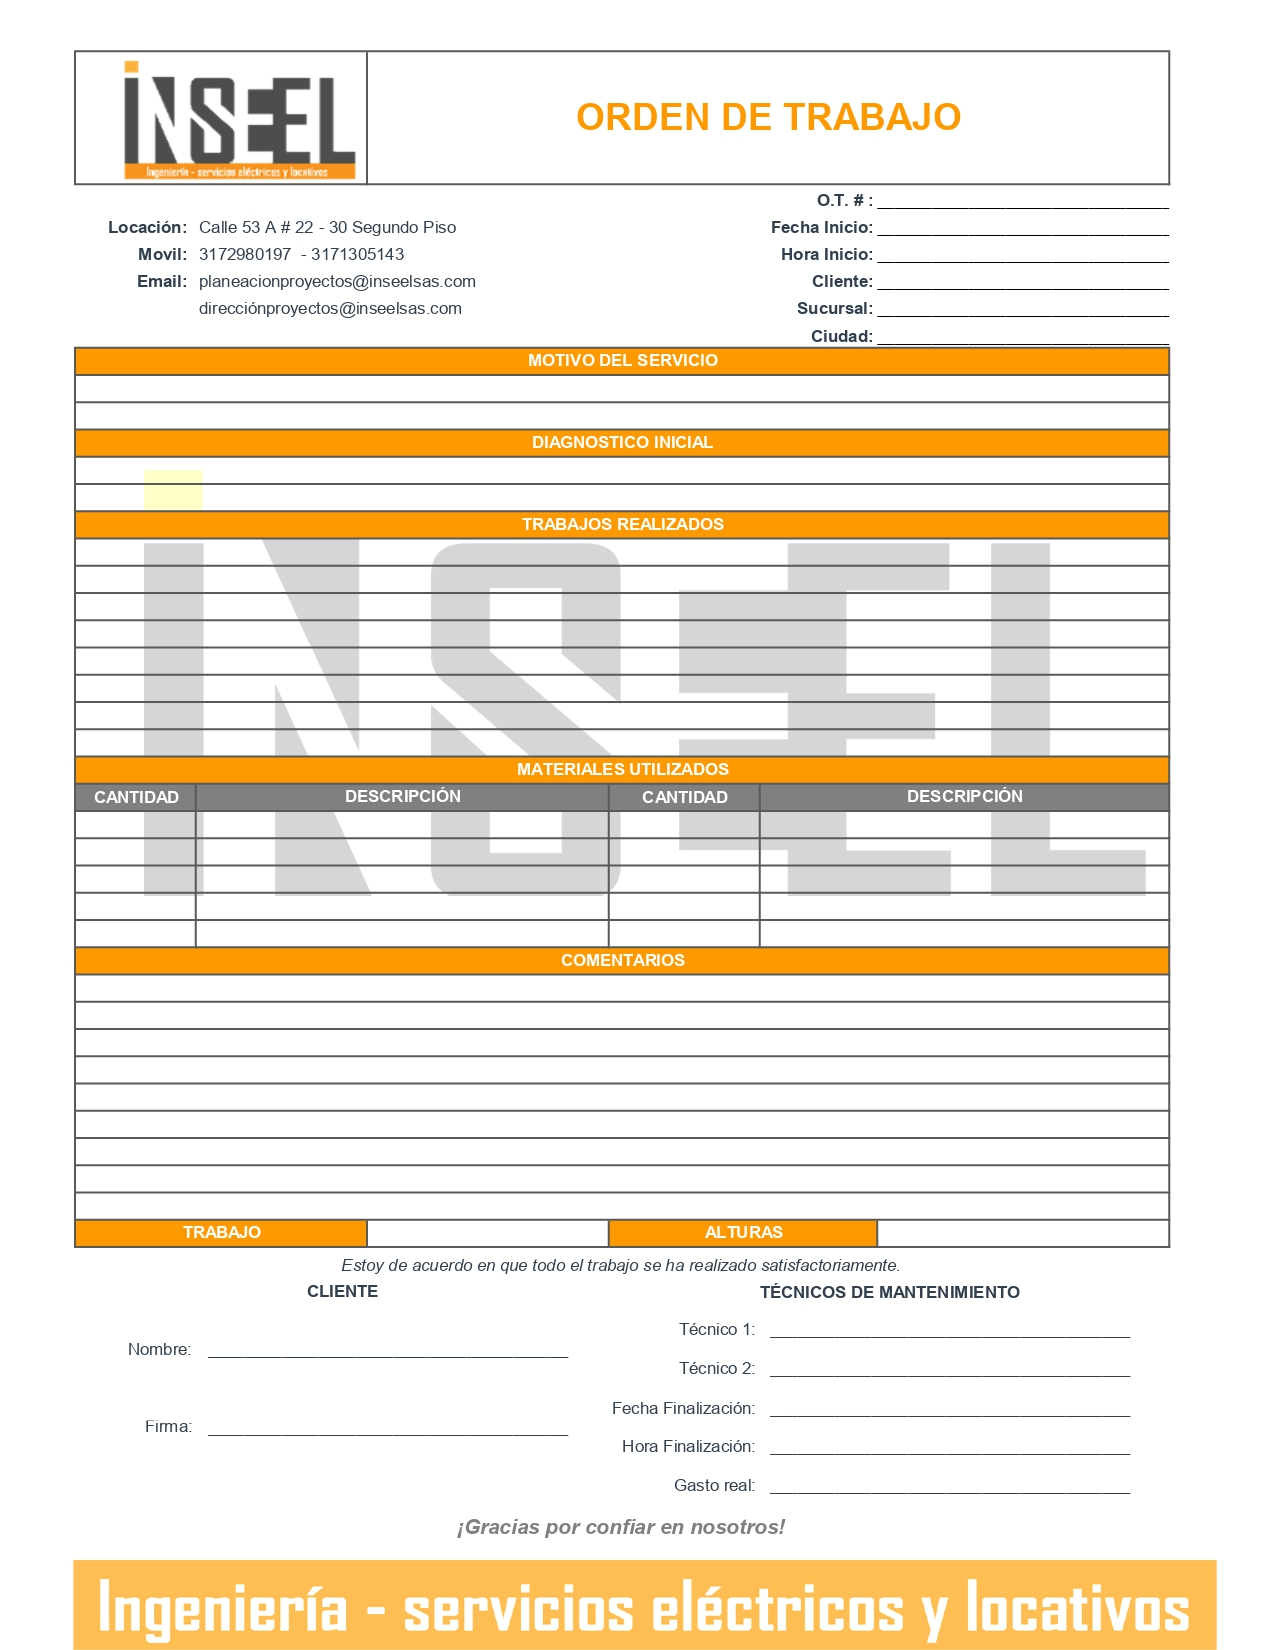
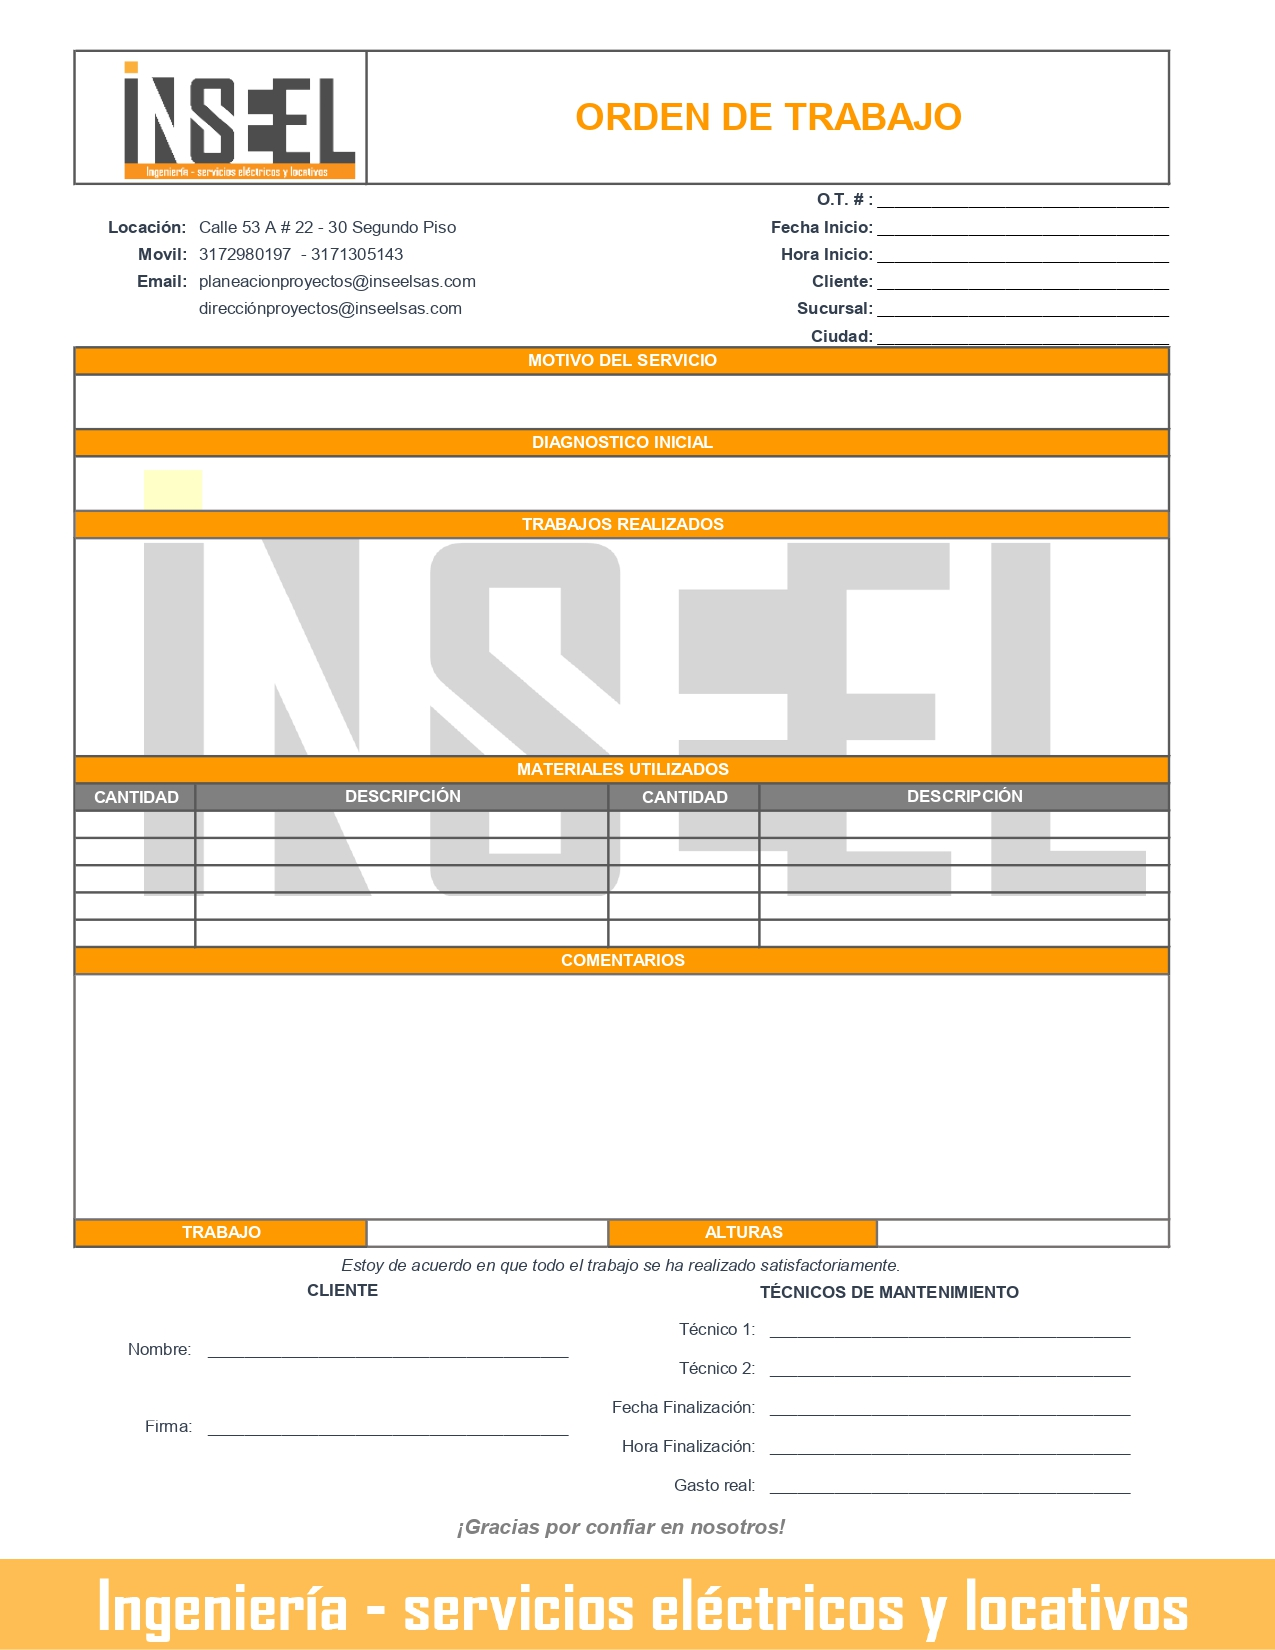
ajuste de desbordamiento de textos

diff --git a/tecnicos_inseel/lib/views/components/vista_ot.dart b/tecnicos_inseel/lib/views/components/vista_ot.dart
@@ -96,191 +96,267 @@ class VistaOt extends StatelessWidget {
                                       height: scaledHeight,
                                     ),
                                     VistaPrevia(
+                                        ancho: containerWidth * 0.20,
+                                        lineas:1,
                                         scale: scale,
                                         top: 183,
                                         left: 890,
                                         dato: ot.numeroOt),
                                     VistaPrevia(
+                                        ancho: containerWidth * 0.20,
+                                        lineas:1,
                                         scale: scale,
                                         top: 210,
                                         left: 890,
                                         dato: ot.fechaInicio),
                                     VistaPrevia(
+                                        ancho: containerWidth * 0.20,
+                                        lineas:1,
                                         scale: scale,
                                         top: 237,
                                         left: 890,
                                         dato: ot.horaInicio),
                                     VistaPrevia(
+                                        ancho: containerWidth * 0.20,
+                                        lineas:1,
                                         scale: scale,
                                         top: 265,
                                         left: 890,
                                         dato: ot.cliente),
                                     VistaPrevia(
+                                        ancho: containerWidth * 0.20,
+                                        lineas:1,
                                         scale: scale,
                                         top: 293,
                                         left: 890,
                                         dato: ot.sucursal),
                                     VistaPrevia(
+                                        ancho: containerWidth * 0.20,
+                                        lineas:1,
                                         scale: scale,
                                         top: 320,
                                         left: 890,
                                         dato: ot.ciudad),
                                     VistaPrevia(
+                                        ancho: containerWidth * 0.85,
+                                        lineas:2,
                                         scale: scale,
-                                        top: 380,
+                                        top: 376,
                                         left: 80,
                                         dato: ot.motivo),
                                     VistaPrevia(
+                                        ancho: containerWidth * 0.85,
+                                        lineas:2,
                                         scale: scale,
                                         top: 460,
                                         left: 80,
                                         dato: ot.diagnostico),
                                     VistaPrevia(
+                                        ancho: containerWidth * 0.85,
+                                        lineas:7,
                                         scale: scale,
                                         top: 542,
                                         left: 80,
                                         dato: ot.trabajos),
                                     VistaPrevia(
+                                        ancho: containerWidth * 0.85,
+                                        lineas:8,
                                         scale: scale,
                                         top: 978,
                                         left: 80,
                                         dato: ot.comentarios),
                                     VistaPrevia(
+                                        ancho: containerWidth * 0.25,
+                                        lineas:1,
                                         scale: scale,
-                                        top: 1310,
+                                        top: 1313,
                                         left: 800,
                                         dato: ot.tecnico1),
                                     VistaPrevia(
+                                        ancho: containerWidth * 0.25,
+                                        lineas:1,
                                         scale: scale,
-                                        top: 1350,
+                                        top: 1353,
                                         left: 800,
                                         dato: ot.tecnico2),
                                     VistaPrevia(
+                                        ancho: containerWidth * 0.25,
+                                        lineas:1,
                                         scale: scale,
                                         top: 1393,
                                         left: 800,
                                         dato: ot.fechaFin),
                                     VistaPrevia(
+                                        ancho: containerWidth * 0.25,
+                                        lineas:1,
                                         scale: scale,
                                         top: 1429,
                                         left: 800,
                                         dato: ot.horaFin),
                                     VistaPrevia(
+                                        ancho: containerWidth * 0.25,
+                                        lineas:1,
                                         scale: scale,
                                         top: 1468,
                                         left: 800,
                                         dato: ot.gastoReal),
                                     VistaPrevia(
+                                        ancho: containerWidth * 0.25,
+                                        lineas:1,
                                         scale: scale,
-                                        top: 1335,
+                                        top: 1332,
                                         left: 230,
                                         dato: ot.recibe),
                                     VistaPrevia(
+                                        ancho: containerWidth * 0.85,
+                                        lineas:1,
                                         scale: scale,
                                         top: 1220,
                                         left: 1000,
                                         dato: ot.alturas),
                                     VistaPrevia(
+                                        ancho: containerWidth * 0.85,
+                                        lineas:1,
                                         scale: scale,
                                         top: 1220,
                                         left: 440,
                                         dato: ot.estado),
                                     VistaPrevia(
+                                        ancho: containerWidth * 0.1,
+                                        lineas:1,
                                         scale: scale,
                                         top: 813,
                                         left: 90,
                                         dato: pares[0].value),
                                     VistaPrevia(
+                                        ancho: containerWidth * 0.3,
+                                        lineas:1,
                                         scale: scale,
                                         top: 813,
                                         left: 210,
                                         dato: pares[0].key),
                                     VistaPrevia(
+                                        ancho: containerWidth * 0.1,
+                                        lineas:1,
                                         scale: scale,
                                         top: 839,
                                         left: 90,
                                         dato: pares[1].value),
                                     VistaPrevia(
+                                        ancho: containerWidth * 0.3,
+                                        lineas:1,
                                         scale: scale,
                                         top: 839,
                                         left: 210,
                                         dato: pares[1].key),
                                     VistaPrevia(
+                                        ancho: containerWidth * 0.1,
+                                        lineas:1,
                                         scale: scale,
                                         top: 867,
                                         left: 90,
                                         dato: pares[2].value),
                                     VistaPrevia(
+                                        ancho: containerWidth * 0.3,
+                                        lineas:1,
                                         scale: scale,
                                         top: 867,
                                         left: 210,
                                         dato: pares[2].key),
                                     VistaPrevia(
+                                        ancho: containerWidth * 0.1,
+                                        lineas:1,
                                         scale: scale,
                                         top: 894,
                                         left: 90,
                                         dato: pares[3].value),
                                     VistaPrevia(
+                                        ancho: containerWidth * 0.3,
+                                        lineas:1,
                                         scale: scale,
                                         top: 894,
                                         left: 210,
                                         dato: pares[3].key),
                                     VistaPrevia(
+                                        ancho: containerWidth * 0.1,
+                                        lineas:1,
                                         scale: scale,
                                         top: 921,
                                         left: 90,
                                         dato: pares[4].value),
                                     VistaPrevia(
+                                        ancho: containerWidth * 0.3,
+                                        lineas:1,
                                         scale: scale,
                                         top: 921,
                                         left: 210,
                                         dato: pares[4].key),
                                     VistaPrevia(
+                                        ancho: containerWidth * 0.1,
+                                        lineas:1,
                                         scale: scale,
                                         top: 813,
                                         left: 640,
                                         dato: pares[5].value),
                                     VistaPrevia(
+                                        ancho: containerWidth * 0.3,
+                                        lineas:1,
                                         scale: scale,
                                         top: 813,
                                         left: 780,
                                         dato: pares[5].key),
                                     VistaPrevia(
+                                        ancho: containerWidth * 0.1,
+                                        lineas:1,
                                         scale: scale,
                                         top: 839,
                                         left: 640,
                                         dato: pares[6].value),
                                     VistaPrevia(
+                                        ancho: containerWidth * 0.3,
+                                        lineas:1,
                                         scale: scale,
                                         top: 839,
                                         left: 780,
                                         dato: pares[6].key),
                                     VistaPrevia(
+                                        ancho: containerWidth * 0.1,
+                                        lineas:1,
                                         scale: scale,
                                         top: 867,
                                         left: 640,
                                         dato: pares[7].value),
                                     VistaPrevia(
+                                        ancho: containerWidth * 0.3,
+                                        lineas:1,
                                         scale: scale,
                                         top: 867,
                                         left: 780,
                                         dato: pares[7].key),
                                     VistaPrevia(
+                                        ancho: containerWidth * 0.1,
+                                        lineas:1,
                                         scale: scale,
                                         top: 894,
                                         left: 640,
                                         dato: pares[8].value),
                                     VistaPrevia(
+                                        ancho: containerWidth * 0.3,
+                                        lineas:1,
                                         scale: scale,
                                         top: 894,
                                         left: 780,
                                         dato: pares[8].key),
                                     VistaPrevia(
+                                        ancho: containerWidth * 0.1,
+                                        lineas:1,
                                         scale: scale,
                                         top: 921,
                                         left: 640,
                                         dato: pares[9].value),
                                     VistaPrevia(
+                                        ancho: containerWidth * 0.3,
+                                        lineas:1,
                                         scale: scale,
                                         top: 921,
                                         left: 780,

diff --git a/tecnicos_inseel/lib/views/components/vista_previa.dart b/tecnicos_inseel/lib/views/components/vista_previa.dart
@@ -4,6 +4,8 @@ class VistaPrevia extends StatelessWidget {
   final double scale;
   final double top;
   final double left;
+  final double ancho;
+  final int lineas;
   final String dato;
 
   const VistaPrevia({
@@ -11,6 +13,8 @@ class VistaPrevia extends StatelessWidget {
     required this.scale,
     required this.top,
     required this.left,
+    required this.ancho,
+    required this.lineas,
     required this.dato,
   });
 
@@ -20,11 +24,17 @@ class VistaPrevia extends StatelessWidget {
       // Coordenadas relativas a la imagen escalada
       top: top * scale,
       left: left * scale,
-      child: Text(
-        dato, // Reemplaza con ot.numeroOt
-        style: TextStyle(
-          fontSize: 20 * scale,
-          fontWeight: FontWeight.bold,
+      child: SizedBox(
+        width: ancho,       
+        child: Text(
+          dato, // Reemplaza con ot.numeroOt
+          style: TextStyle(
+            fontSize: 20 * scale,
+            fontWeight: FontWeight.bold,
+          ),
+          softWrap: true,
+          overflow: TextOverflow.ellipsis,
+          maxLines: lineas,
         ),
       ),
     );

diff --git a/tecnicos_inseel/lib/services/compartir_pdf.dart b/tecnicos_inseel/lib/services/compartir_pdf.dart
@@ -60,8 +60,8 @@ Future<Uint8List> captureFullContent(GlobalKey key) async {
     final boundary = key.currentContext!.findRenderObject() as RenderRepaintBoundary;
 
     // Calcula el tamaño completo del contenido desplazable
-    final size = boundary.size;
-    print('Tamaño del contenido: $size');
+    //final size = boundary.size;
+    //print('Tamaño del contenido: $size');
 
     // Renderiza el contenido completo
     final image = await boundary.toImage(pixelRatio: 3.0); // Ajusta el pixelRatio si es necesario

diff --git a/tecnicos_inseel/lib/views/pages/informacion_inicial.dart b/tecnicos_inseel/lib/views/pages/informacion_inicial.dart
@@ -68,6 +68,7 @@ class _InformacionInicialState extends State<InformacionInicial> {
                     ),
                     const SizedBox(height: 8),
                     TextField(
+                      maxLength: 10,
                       decoration: InputDecoration(
                         filled: true,
                         fillColor:
